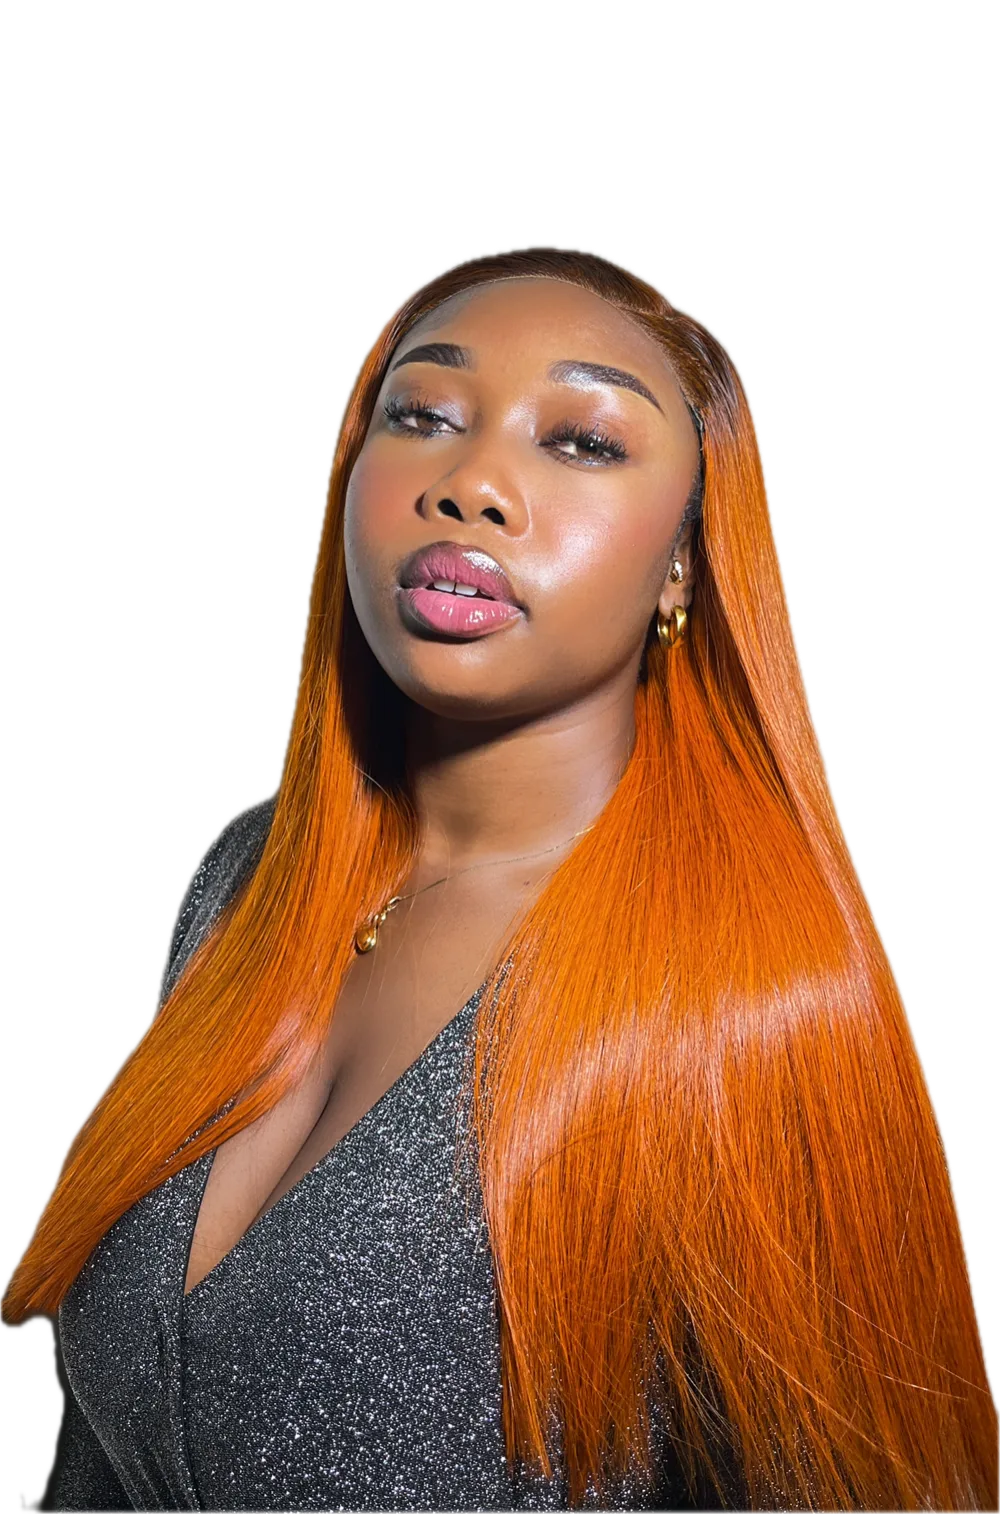
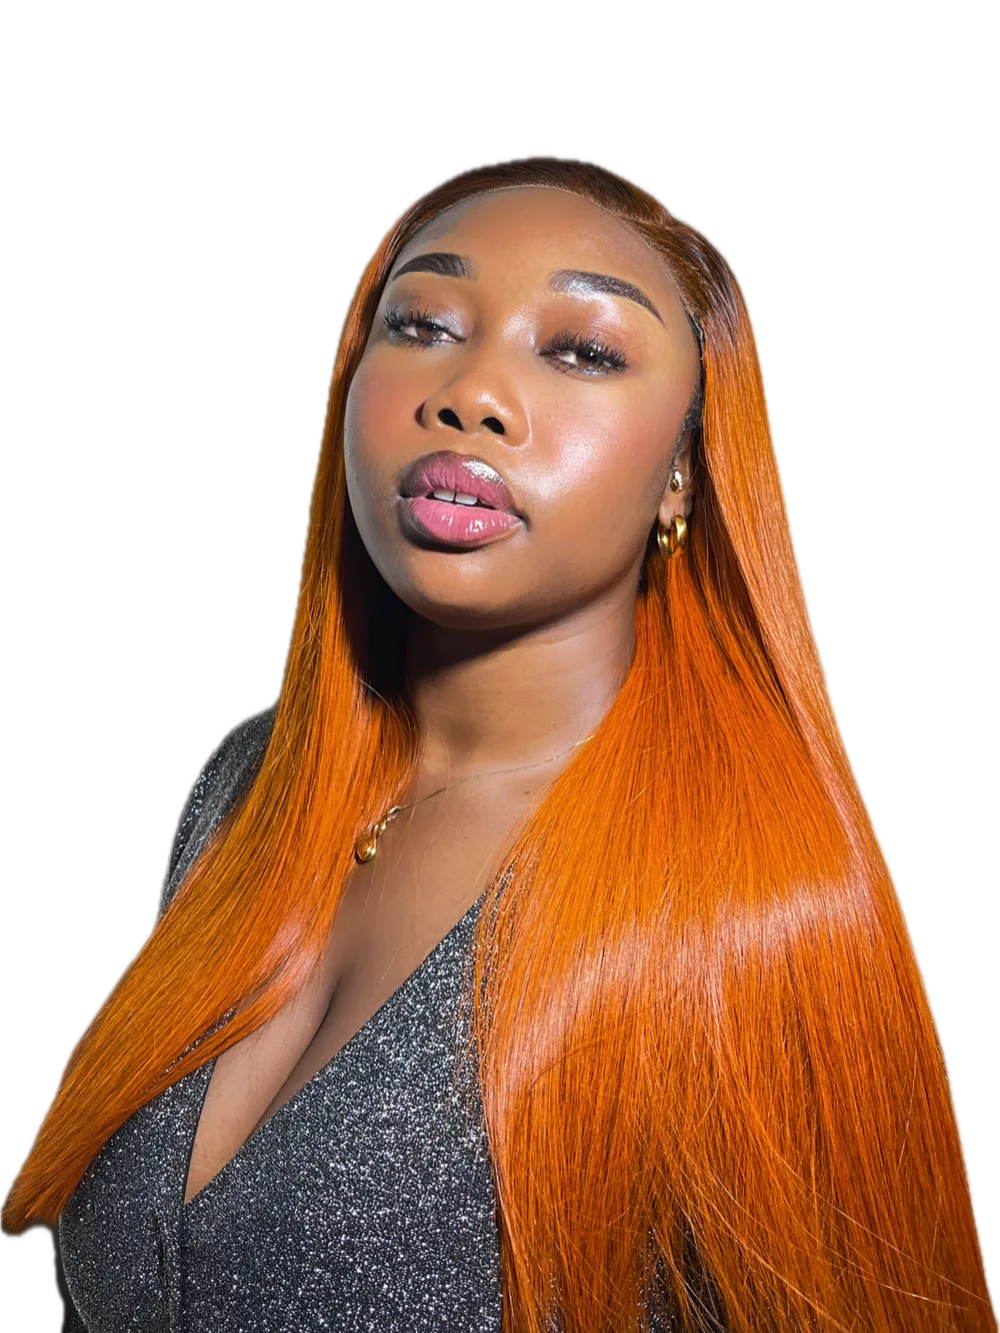
refine(home): chest-up hero crop, card on hair edge, category tiles fill row
Hero model re-cropped to a chest-up 3:4 frame so the face carries the
section like the founder mockup; restoration card now overlaps the
hair edge instead of floating clear. Category tiles stretch edge to
edge on desktop (min 110px, side-scroll kicks in past ten categories).
Verified against the mockup in local desktop and mobile renders.

diff --git a/src/app/(shop)/page.tsx b/src/app/(shop)/page.tsx
@@ -113,7 +113,7 @@ export default async function HomePage() {
   return (
     <main>
       <section className="bg-vanilla-200 px-5 pb-12 pt-10 md:px-12 md:py-0">
-        <div className="mx-auto grid max-w-6xl items-center gap-6 md:h-[500px] md:grid-cols-[1.05fr_1fr]">
+        <div className="mx-auto grid max-w-6xl items-center gap-6 md:h-[520px] md:grid-cols-[1.05fr_1fr]">
           <div className="md:py-8">
             <p className="text-[11px] font-semibold uppercase tracking-widest text-violet-800">
               Luxury wigs. Made for you.
@@ -230,7 +230,7 @@ export default async function HomePage() {
             <Link
               key={c.slug}
               href={`/shop?category=${c.slug}`}
-              className="group relative block w-36 shrink-0 overflow-hidden bg-vanilla-200 no-underline hover:no-underline sm:w-40"
+              className="group relative block w-36 shrink-0 overflow-hidden bg-vanilla-200 no-underline hover:no-underline sm:w-40 md:w-auto md:min-w-[110px] md:flex-1"
             >
               <div className="aspect-[4/5]">
                 {c.image && (
